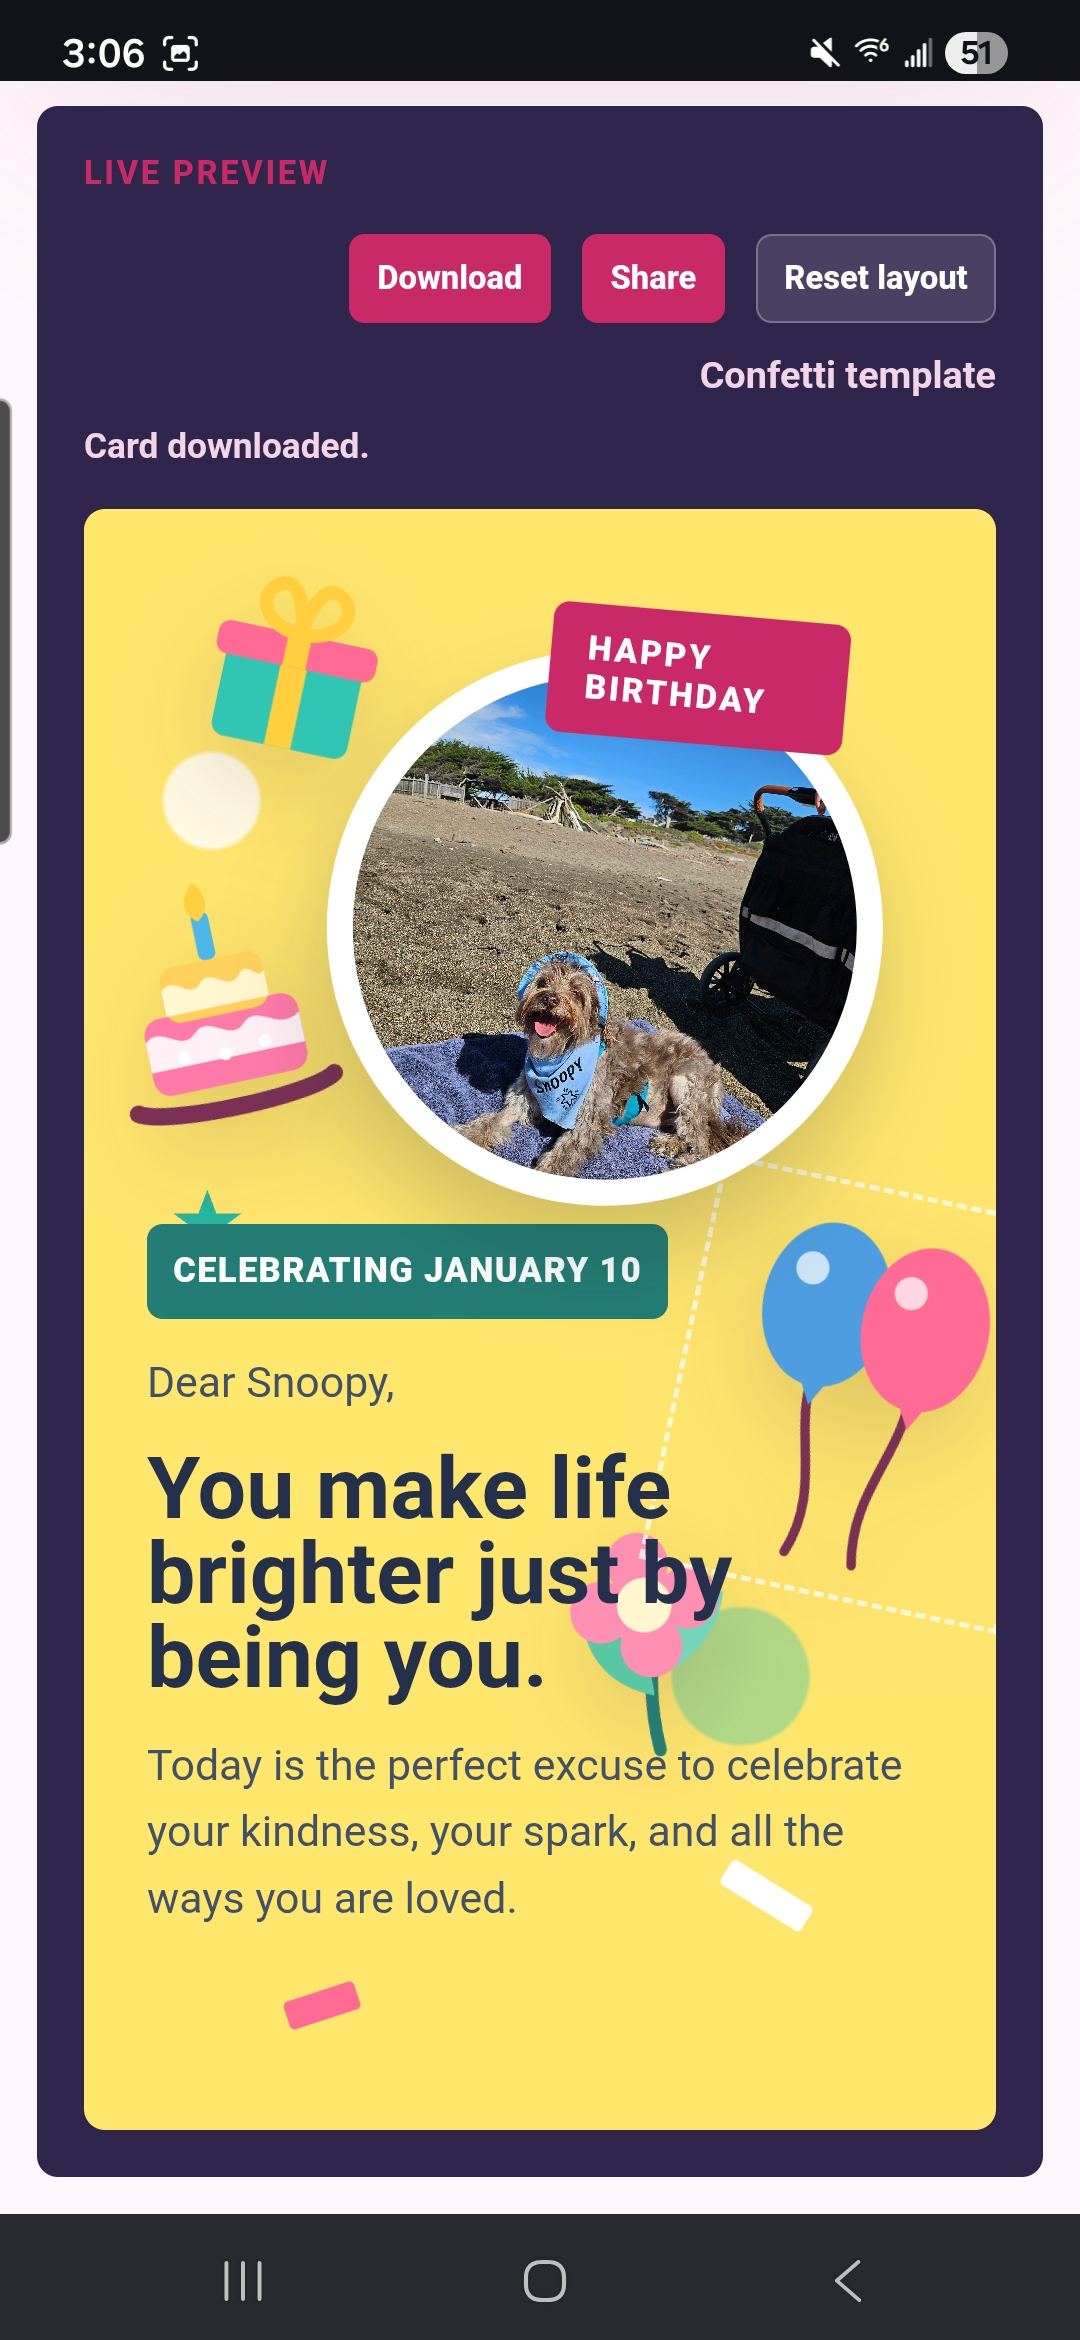
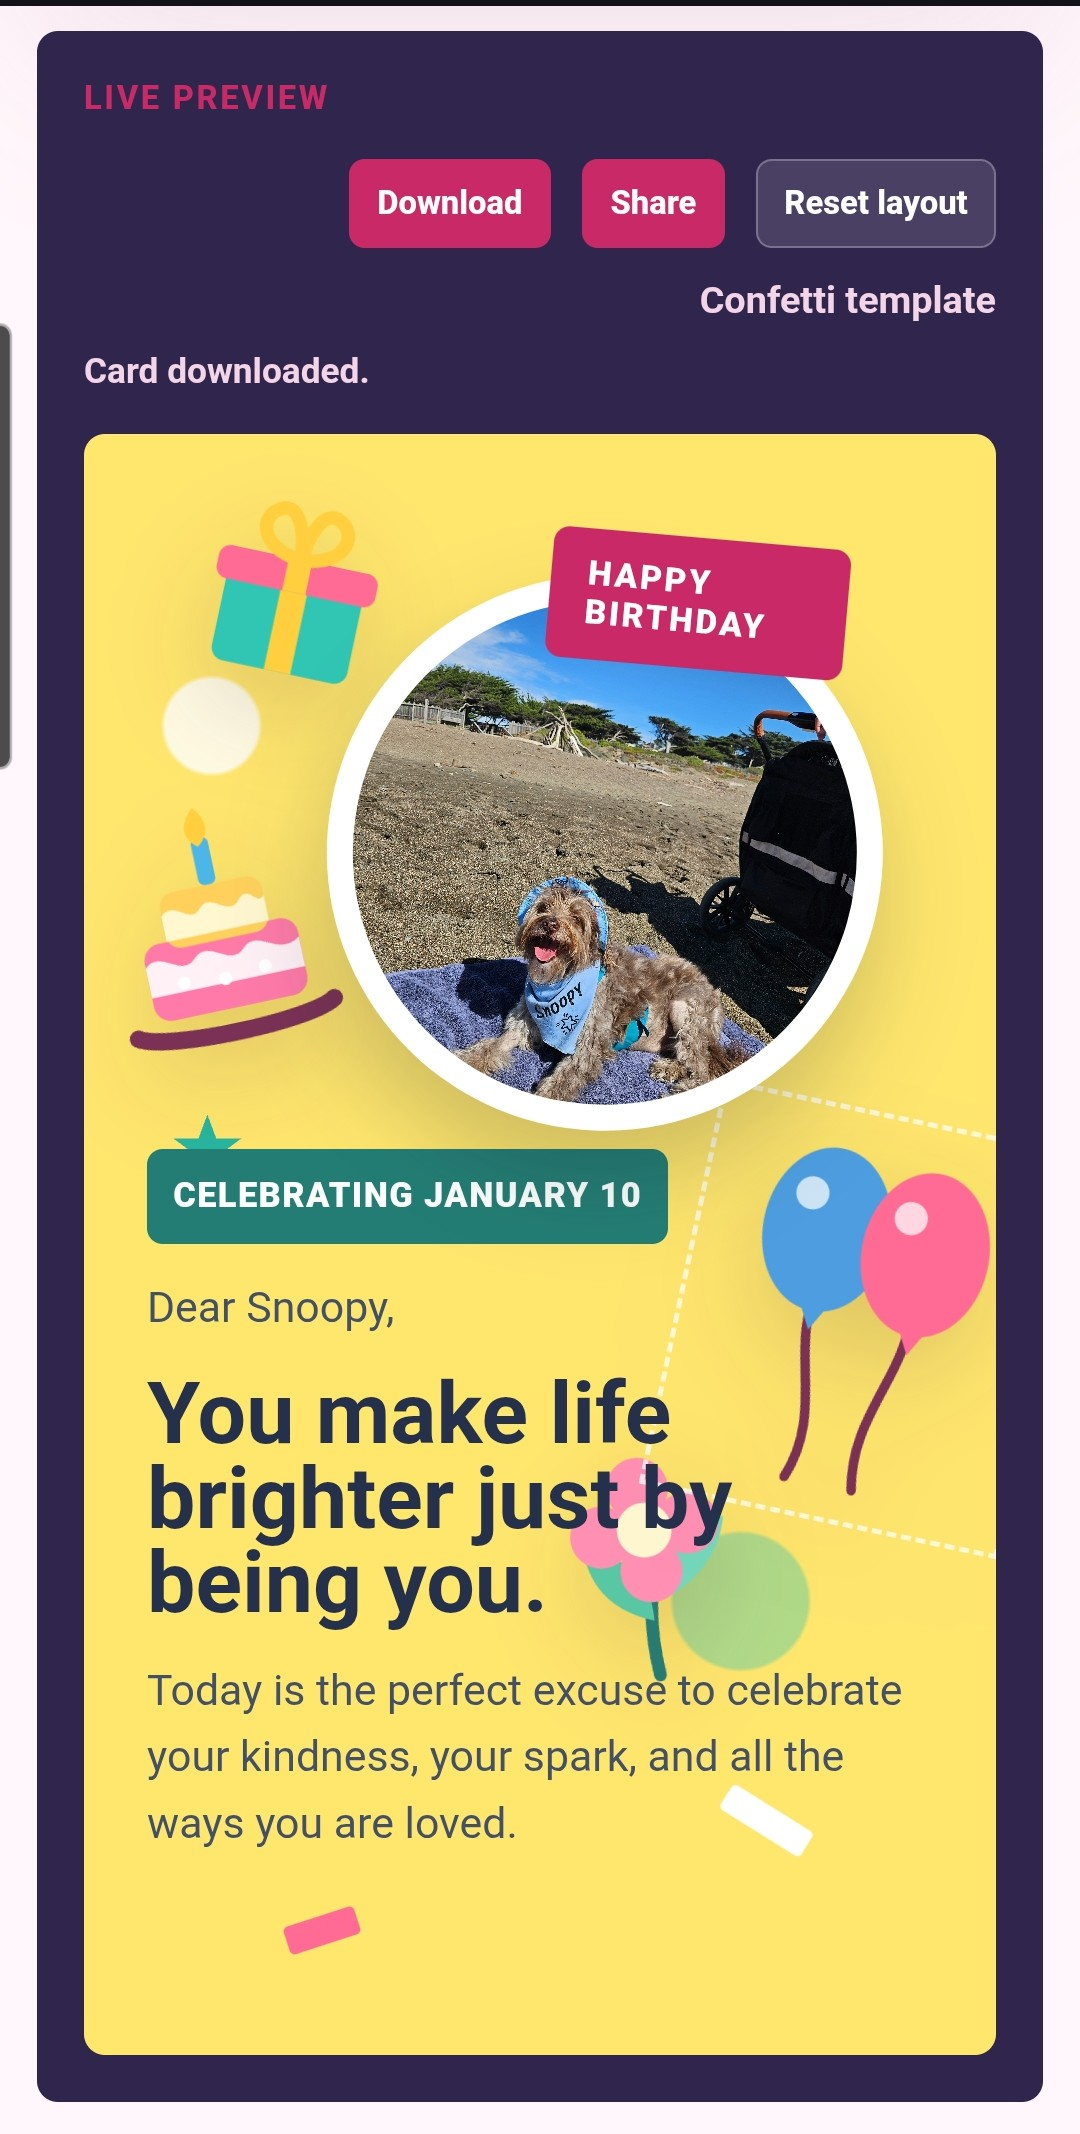
Update README

diff --git a/README.md b/README.md
@@ -6,15 +6,19 @@ Create customized digital birthday cards with photos, stickers, themes, and pers
 
 ## 📸 Screenshots
 
-### Customzie
+### Card Editor
 
-![Custom](./screenshots/customize.jpg)
+<p align="center">
+  <img src="./screenshots/editor.png" alt="Editor" width="350">
+</p>
 
 ### Birthday Card Preview
 
-![Sweet](./screenshots/sweet.jpg)
-![PopArt](./screenshots/popart.jpg)
-![Confetti](./screenshots/confetti.jpg)
+<p align="center">
+  <img src="./screenshots/sweet.jpg" alt="Sweet Theme" width="250">
+  <img src="./screenshots/popart.jpg" alt="Pop Art Theme" width="250">
+  <img src="./screenshots/confetti.jpg" alt="Confetti Theme" width="250">
+</p>
 
 ## 📖 About
 